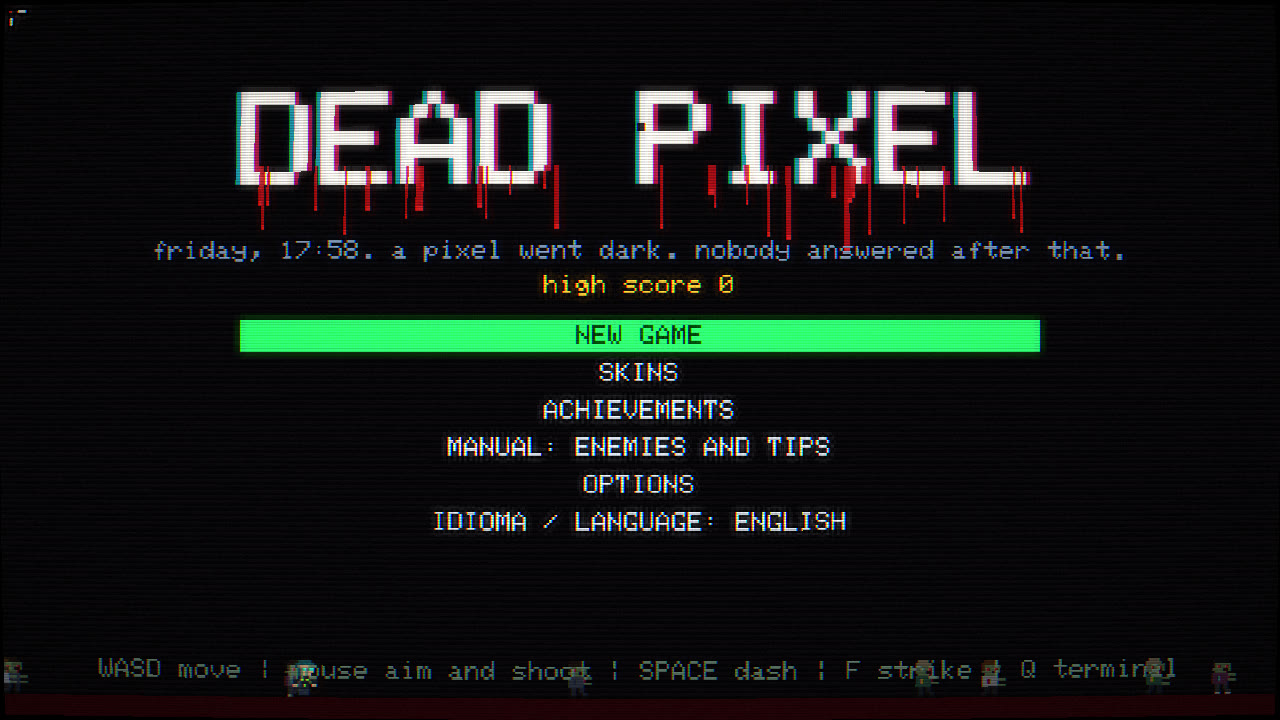
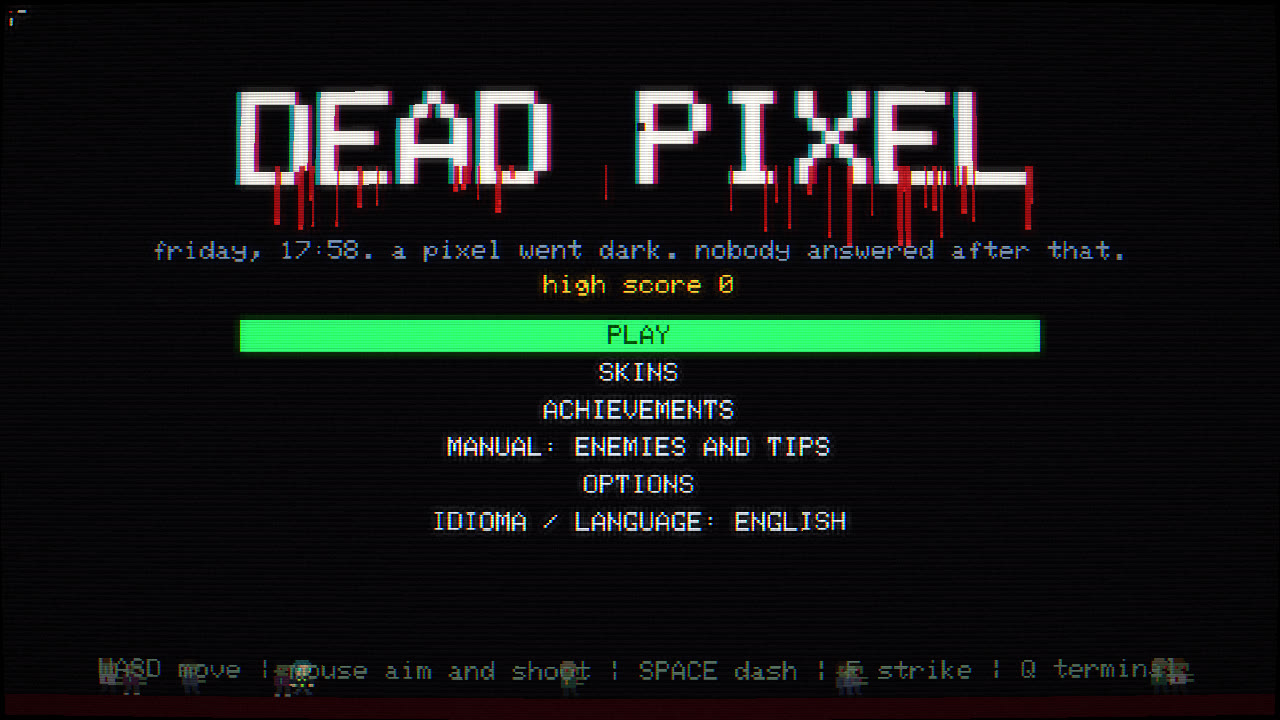
docs: document game modes, gamepad, touch, options and tests

diff --git a/README.md b/README.md
@@ -5,13 +5,14 @@
 **Friday, 17:58. A pixel went dark. Nobody answered after that.**
 
 A top-down 2D tech-horror mystery shooter for the browser.
-5 levels, 5 bosses, 6 weapons and a real terminal for typing `rm -rf` in slow motion.
+5 levels, 5 bosses, 6 weapons, an endless mode, a daily run and a real terminal for typing `rm -rf` in slow motion.
 
 ### [![▶ Play now](https://img.shields.io/badge/%E2%96%B6%20PLAY%20NOW-e8222a?style=for-the-badge&logoColor=white)](https://akanyane.github.io/dead-pixel/)
 
-<sub>Free, in the browser, nothing to install. Needs a keyboard and a mouse.</sub>
+<sub>Free, in the browser, nothing to install. Keyboard and mouse, gamepad or touch.</sub>
 
 [![Release](https://img.shields.io/github/v/release/akanyane/dead-pixel?style=flat-square&color=39ff88&label=release)](https://github.com/akanyane/dead-pixel/releases)
+[![CI](https://img.shields.io/github/actions/workflow/status/akanyane/dead-pixel/ci.yml?style=flat-square&label=tests)](https://github.com/akanyane/dead-pixel/actions/workflows/ci.yml)
 [![release-please](https://img.shields.io/github/actions/workflow/status/akanyane/dead-pixel/release-please.yml?style=flat-square&label=release-please)](https://github.com/akanyane/dead-pixel/actions/workflows/release-please.yml)
 [![License: MIT](https://img.shields.io/badge/license-MIT-ff2a2a?style=flat-square)](LICENSE)
 ![TypeScript](https://img.shields.io/badge/TypeScript-strict-2bb8c9?style=flat-square&logo=typescript&logoColor=white)
@@ -30,6 +31,7 @@ A top-down 2D tech-horror mystery shooter for the browser.
 
 - [The story](#the-story)
 - [How to play](#how-to-play)
+- [Game modes](#game-modes)
 - [Controls](#controls)
 - [What makes it different](#what-makes-it-different)
 - [The terminal](#the-terminal)
@@ -39,6 +41,7 @@ A top-down 2D tech-horror mystery shooter for the browser.
 - [Patches (upgrades)](#patches-upgrades)
 - [Skins](#skins)
 - [Achievements](#achievements)
+- [Options and accessibility](#options-and-accessibility)
 - [Languages](#languages)
 - [In-game manual and tips](#in-game-manual-and-tips)
 - [Score and streaks](#score-and-streaks)
@@ -101,7 +104,23 @@ Then open the address printed in the terminal (usually http://localhost:5173).
 > [!NOTE]
 > Double-clicking `index.html` won't work: browsers block JavaScript modules on `file://`. You need a server, even a local one.
 
-**Requirements:** a modern desktop browser, a keyboard and a mouse. There are no touch controls. WebGL is recommended for the CRT effect; without it, the game runs on plain Canvas 2D without the effect.
+**Requirements:** a modern browser and a keyboard and mouse, a gamepad or a touch screen. WebGL is recommended for the CRT effect; without it, the game runs on plain Canvas 2D without the effect.
+
+## Game modes
+
+Pick a mode under **PLAY** in the main menu.
+
+| Mode | What it is |
+| --- | --- |
+| **Story** | The 5 levels and the mystery. Choose a difficulty when you start: |
+| ↳ Easy | Enemies have 25% less HP and deal 40% less damage. Score is worth 0.5x |
+| ↳ Normal | The game as it was meant to be played |
+| ↳ Hard | 20% more enemies, 25% more HP, 35% more damage. Score is worth 1.5x |
+| ↳ Hardcore | Like hard, but dying erases the run. Score is worth 2x |
+| **Endless** | Unlocked after the ending. Arenas cycle through the five themes, with 4 waves and a boss each. Enemies get tougher every wave, and bosses come back much stronger on every loop. One life |
+| **Daily run** | Same map, same waves and same patches for everyone on the same day (UTC). One life. Press `C` on the death screen to copy your result |
+
+Endless and the daily run are always played on normal, so records stay comparable. Your best endless wave and today's best daily run are shown in the menu.
 
 ## Controls
 
@@ -116,8 +135,29 @@ Then open the address printed in the terminal (usually http://localhost:5173).
 | Pause | `Esc` or `P` |
 | Pick a patch | Click, or `1` `2` `3` |
 | Restart the level after dying | `R` |
+| Copy your arcade result | `C` on the death screen |
 
-There is no reloading.
+There is no reloading. Movement, dash, strike, terminal and pause can be remapped under **OPTIONS > CONTROLS**.
+
+### Gamepad
+
+Any standard gamepad works; it takes over as soon as you touch it.
+
+| Action | Button |
+| --- | --- |
+| Move / aim | Left stick / right stick |
+| Shoot | `RT` |
+| Dash | `LT` or `A` |
+| Crowbar strike | `X` |
+| Switch weapon | `LB` / `RB` |
+| Terminal | `Y`, then pick a command with the d-pad and run it with `A` |
+| Pause | `Start` |
+
+Menus work with the d-pad, `A` to confirm and `B` to go back.
+
+### Touch
+
+Drag on the left half of the screen to move and on the right half to aim and shoot. Buttons on the right handle dash, strike, weapon and the terminal, where you tap a command to run it. The pause button sits under the health bar.
 
 <div align="center">
   <img src="docs/screenshots/menu.jpg" alt="Main menu, with the DEAD PIXEL title dripping blood" width="720">
@@ -281,11 +321,23 @@ Skins are cosmetic only, and each one has its own dash trail.
 
 ## Achievements
 
-There are 26 achievements, available from the main menu and the pause menu, with progress bars on the ones that count something. They're saved in your browser. Some are hidden and only reveal themselves once unlocked, so they don't spoil the story.
+There are 28 achievements, available from the main menu and the pause menu, with progress bars on the ones that count something. They're saved in your browser. Some are hidden and only reveal themselves once unlocked, so they don't spoil the story.
 
 <div align="center"><img src="docs/screenshots/achievements.jpg" alt="Achievements screen, with the list on the left and the details of the selected achievement on the right" width="720"></div>
 
-They reward combat (streaks, total kills, a single `rm -rf` terminating 20 processes), challenges (beating a boss without taking damage, finishing a level with only `printf()`) and investigating through the terminal.
+They reward combat (streaks, total kills, a single `rm -rf` terminating 20 processes), challenges (beating a boss without taking damage, finishing a level with only `printf()`, finishing the story on hard, reaching wave 25 in endless) and investigating through the terminal.
+
+## Options and accessibility
+
+| Option | What it does |
+| --- | --- |
+| **Gore** | Maximum, normal or mild |
+| **Music** and **sound effects** | Separate volumes in 10% steps; left and right arrows adjust them |
+| **CRT effect** | Turns the old-monitor shader on or off |
+| **Tips and cards** | New enemy cards, death tips and context hints |
+| **High contrast hazards** | Enemy shots get a black and white outline, danger zones get diagonal stripes, and warning lines turn white, so nothing depends on telling red from green |
+| **Controls** | Remap movement, dash, strike, terminal and pause |
+| **Language** | English, Portuguese or Spanish |
 
 ## Languages
 
@@ -321,7 +373,7 @@ Each kill in a streak resets a 3.5-second timer, and taking damage shortens it. 
 | 150 | CAN THEY FEEL IT? |
 | 250 | WHO ARE YOU? |
 
-Progress, high score, skins, achievements and options are saved in the browser's `localStorage`. There's no server and no account.
+Progress, high scores, arcade records, skins, achievements and options are saved in the browser's `localStorage`. There's no server and no account.
 
 ## Survival tips
 
@@ -379,14 +431,14 @@ dead-pixel/
 │   │   ├── audio.ts        # Synthesized effects and music
 │   │   ├── crt.ts          # WebGL post-processing
 │   │   ├── font.ts         # Bitmap font with accents
-│   │   ├── input.ts        # Keyboard and mouse
-│   │   └── util.ts         # Math and helpers
+│   │   ├── input.ts        # Keyboard, mouse, gamepad, touch and key bindings
+│   │   └── util.ts         # Math, seeded random and helpers
 │   └── game/
 │       ├── data.ts         # ⭐ Enemies, weapons, perks, skins and levels: balance here
 │       ├── achievements.ts # Achievement list and progress rules
 │       ├── i18n.ts         # Every string, in Portuguese, English and Spanish
 │       ├── screens.ts      # Manual, enemy cards and skin selection
-│       ├── game.ts         # State, waves, saves and progression
+│       ├── game.ts         # State, waves, modes, saves and progression
 │       ├── combat.ts       # Player, projectiles, damage and explosions
 │       ├── enemies.ts      # Enemy and boss AI
 │       ├── terminal.ts     # Terminal commands
@@ -395,8 +447,10 @@ dead-pixel/
 │       ├── render.ts       # World and lighting
 │       ├── hud.ts          # Interface and screens
 │       └── sprites.ts      # Pixel art as text
+├── tests/                  # Playwright smoke tests
+├── public/og.jpg           # Link preview image
 ├── docs/screenshots/       # Images used in this README
-├── .github/workflows/      # Release and deploy automation
+├── .github/workflows/      # CI, release and deploy automation
 └── release-please-config.json
 ```
 
@@ -408,6 +462,7 @@ dead-pixel/
 | `npm run build` | Typecheck and production build into `dist/` |
 | `npm run preview` | Serves the production build locally |
 | `npm run typecheck` | Typecheck only |
+| `npm test` | Playwright smoke tests (run `npx playwright install chromium` once first) |
 
 In development mode the game object is exposed as `window.__g`, and `?god` in the URL turns on invincibility. Neither exists in the production build.
 
@@ -417,7 +472,7 @@ __g.beginPlay();       // skip the story
 __g.player.ram = 512;  // fill up RAM
 ```
 
-The project has no automated tests yet.
+The smoke tests boot the game, play part of a level, check that the daily run is identical across two sessions and that endless mode stays locked until the ending. The `ci.yml` workflow runs the typecheck, the build and these tests on every pull request.
 
 ## Deploying the game
 

diff --git a/CONTRIBUTING.md b/CONTRIBUTING.md
@@ -20,13 +20,15 @@ __g.beginPlay();       // skip the story screen
 __g.player.ram = 512;  // full RAM to test the terminal
 ```
 
-Before opening a PR, run the build, which also runs the typecheck:
+Before opening a PR, run the build (which also runs the typecheck) and the smoke tests:
 
 ```bash
 npm run build
+npx playwright install chromium   # once
+npm test
 ```
 
-The project has no automated tests yet, so play the part you changed.
+CI runs the same checks on every pull request. The tests only cover the basics, so also play the part you changed.
 
 ## Commit messages
 
@@ -56,6 +58,9 @@ fix: stop items from spawning inside walls
 | Add an achievement | `src/game/achievements.ts`, plus its text in `src/game/i18n.ts` |
 | Change or translate text | `src/game/i18n.ts` |
 | Add a terminal command | `src/game/terminal.ts` |
+| Change difficulty or arcade tuning | `DIFFICULTY` and `ARCADE_*` in `src/game/data.ts` |
+| Change controls, gamepad or touch | `src/core/input.ts` |
+| Add a smoke test | `tests/smoke.spec.ts` |
 | Change enemy and boss AI | `src/game/enemies.ts` |
 | Change damage, projectiles and controls | `src/game/combat.ts` |
 | Work on gore and particles | `src/game/fx.ts` |
